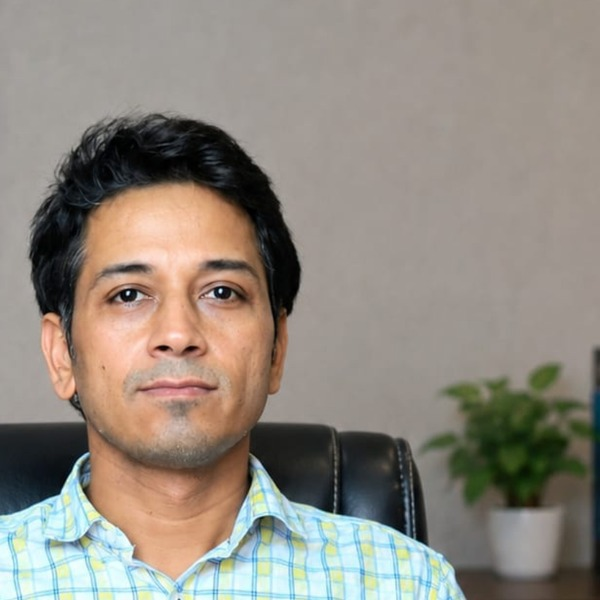
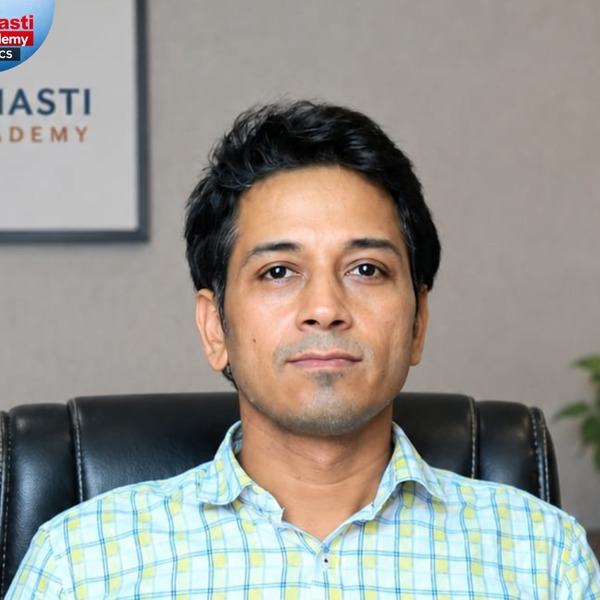
Add files via upload

diff --git a/templates/index.html b/templates/index.html
@@ -293,22 +293,26 @@
     </div>
     <div class="faculty-grid faculty-grid-single">
       {% if photos.faculty %}
-        <div class="faculty-card faculty-card-spotlight reveal" style="--d:0s">
-          <div class="faculty-avatar faculty-avatar-photo">
+        <div class="faculty-card faculty-card-full reveal" style="--d:0s">
+          <div class="faculty-photo-full">
             <img src="{{ url_for('static', filename='photos/' + photos.faculty[0].filename) }}" alt="Abhishek Singh">
           </div>
-          <h3>Abhishek Singh</h3>
-          <p class="faculty-role">General Studies &amp; Polity</p>
-          <p class="faculty-bio">Over 10 years of teaching experience, having helped hundreds of students clear the Prelims.</p>
+          <div class="faculty-info">
+            <h3>Abhishek Singh</h3>
+            <p class="faculty-role">General Studies &amp; Polity</p>
+            <p class="faculty-bio">Over 10 years of teaching experience, having helped hundreds of students clear the Prelims.</p>
+          </div>
         </div>
       {% else %}
-        <div class="faculty-card faculty-card-spotlight reveal" style="--d:0s">
-          <div class="faculty-avatar faculty-avatar-photo">
-            <img src="{{ url_for('static', filename='photos/faculty_abhishek_singh.jpg') }}" alt="Abhishek Singh">
+        <div class="faculty-card faculty-card-full reveal" style="--d:0s">
+          <div class="faculty-photo-full">
+            <img src="{{ url_for('static', filename='photos/faculty_abhishek_singh_full.jpg') }}" alt="Abhishek Singh">
           </div>
-          <h3>Abhishek Singh</h3>
-          <p class="faculty-role">General Studies &amp; Polity</p>
-          <p class="faculty-bio">Over 10 years of teaching experience, having helped hundreds of students clear the Prelims.</p>
+          <div class="faculty-info">
+            <h3>Abhishek Singh</h3>
+            <p class="faculty-role">General Studies &amp; Polity</p>
+            <p class="faculty-bio">Over 10 years of teaching experience, having helped hundreds of students clear the Prelims.</p>
+          </div>
         </div>
       {% endif %}
     </div>

diff --git a/static/css/main.css b/static/css/main.css
@@ -624,15 +624,40 @@ ul{list-style:none;}
 }
 .faculty-grid-single{
   grid-template-columns: 1fr;
-  max-width: 340px;
+  max-width: 480px;
   margin: 0 auto;
 }
-.faculty-card-spotlight{
-  padding: 44px 28px 36px;
+.faculty-card.faculty-card-full{
+  padding: 0 0 36px;
+  overflow: hidden;
   position: relative;
   border: 1px solid rgba(183,36,20,0.08);
 }
-.faculty-card-spotlight::before{
+.faculty-card.faculty-card-full:hover{ transform: translateY(-8px); }
+.faculty-photo-full{
+  width: 100%;
+  aspect-ratio: 4 / 5;
+  overflow: hidden;
+  position: relative;
+}
+.faculty-photo-full::after{
+  content:"";
+  position:absolute;
+  inset:0;
+  background: linear-gradient(180deg, rgba(20,20,30,0) 60%, rgba(20,20,30,0.35) 100%);
+}
+.faculty-photo-full img{
+  width:100%; height:100%;
+  object-fit: cover;
+  object-position: top center;
+  display:block;
+}
+.faculty-info{
+  padding: 28px 30px 0;
+  text-align:center;
+  position: relative;
+}
+.faculty-info::before{
   content:"";
   position:absolute;
   top:0; left:50%;
@@ -641,27 +666,17 @@ ul{list-style:none;}
   border-radius: 999px;
   background: linear-gradient(90deg, var(--color-gold), var(--color-maroon));
 }
-.faculty-card-spotlight .faculty-avatar{
-  width: 132px; height:132px;
-  margin: 0 auto 20px;
-  padding: 5px;
-  background: linear-gradient(135deg, var(--color-gold), var(--color-maroon));
-}
-.faculty-card-spotlight .faculty-avatar-photo img{
-  border-radius:50%;
-  border: 3px solid #fff;
-}
-.faculty-card-spotlight h3{
-  font-size: 1.3rem;
+.faculty-card.faculty-card-full h3{
+  font-size: 1.4rem;
   margin-bottom: 2px;
 }
-.faculty-card-spotlight .faculty-role{
-  font-size: 0.88rem;
+.faculty-card.faculty-card-full .faculty-role{
+  font-size: 0.9rem;
   margin: 6px 0 14px;
 }
-.faculty-card-spotlight .faculty-bio{
-  font-size: 0.92rem;
-  line-height: 1.6;
+.faculty-card.faculty-card-full .faculty-bio{
+  font-size: 0.94rem;
+  line-height: 1.65;
 }
 .faculty-card{
   text-align:center;

diff --git a/index.html b/index.html
@@ -277,13 +277,15 @@
       <h2 class="section-title">Faculty Who Don't Just Teach, They Guide</h2>
     </div>
     <div class="faculty-grid faculty-grid-single">
-      <div class="faculty-card faculty-card-spotlight reveal" style="--d:0s">
-        <div class="faculty-avatar faculty-avatar-photo">
-          <img src="static/photos/faculty_abhishek_singh.jpg" alt="Abhishek Singh">
+      <div class="faculty-card faculty-card-full reveal" style="--d:0s">
+        <div class="faculty-photo-full">
+          <img src="static/photos/faculty_abhishek_singh_full.jpg" alt="Abhishek Singh">
         </div>
-        <h3>Abhishek Singh</h3>
-        <p class="faculty-role">General Studies &amp; Polity</p>
-        <p class="faculty-bio">Over 10 years of teaching experience, having helped hundreds of students clear the Prelims.</p>
+        <div class="faculty-info">
+          <h3>Abhishek Singh</h3>
+          <p class="faculty-role">General Studies &amp; Polity</p>
+          <p class="faculty-bio">Over 10 years of teaching experience, having helped hundreds of students clear the Prelims.</p>
+        </div>
       </div>
     </div>
   </div>

diff --git a/app.py b/app.py
@@ -207,6 +207,40 @@ def home():
     return render_template('index.html', photos=photos)
 
 
+@app.route('/robots.txt')
+def robots_txt():
+    lines = [
+        'User-agent: *',
+        'Allow: /',
+        'Disallow: /admin',
+        'Disallow: /login',
+        'Disallow: /profile',
+        'Disallow: /material/download/',
+        '',
+        f"Sitemap: {request.url_root.rstrip('/')}/sitemap.xml",
+    ]
+    return '\n'.join(lines), 200, {'Content-Type': 'text/plain; charset=utf-8'}
+
+
+@app.route('/sitemap.xml')
+def sitemap_xml():
+    base = request.url_root.rstrip('/')
+    today = datetime.utcnow().strftime('%Y-%m-%d')
+    pages = [
+        {'loc': f'{base}/', 'priority': '1.0', 'changefreq': 'weekly'},
+        {'loc': f'{base}/study-material', 'priority': '0.8', 'changefreq': 'weekly'},
+    ]
+    xml_parts = ['<?xml version="1.0" encoding="UTF-8"?>',
+                 '<urlset xmlns="http://www.sitemaps.org/schemas/sitemap/0.9">']
+    for p in pages:
+        xml_parts.append(
+            f"  <url><loc>{p['loc']}</loc><lastmod>{today}</lastmod>"
+            f"<changefreq>{p['changefreq']}</changefreq><priority>{p['priority']}</priority></url>"
+        )
+    xml_parts.append('</urlset>')
+    return '\n'.join(xml_parts), 200, {'Content-Type': 'application/xml; charset=utf-8'}
+
+
 @app.route('/enquiry', methods=['POST'])
 def submit_enquiry():
     name = request.form.get('name', '').strip()
